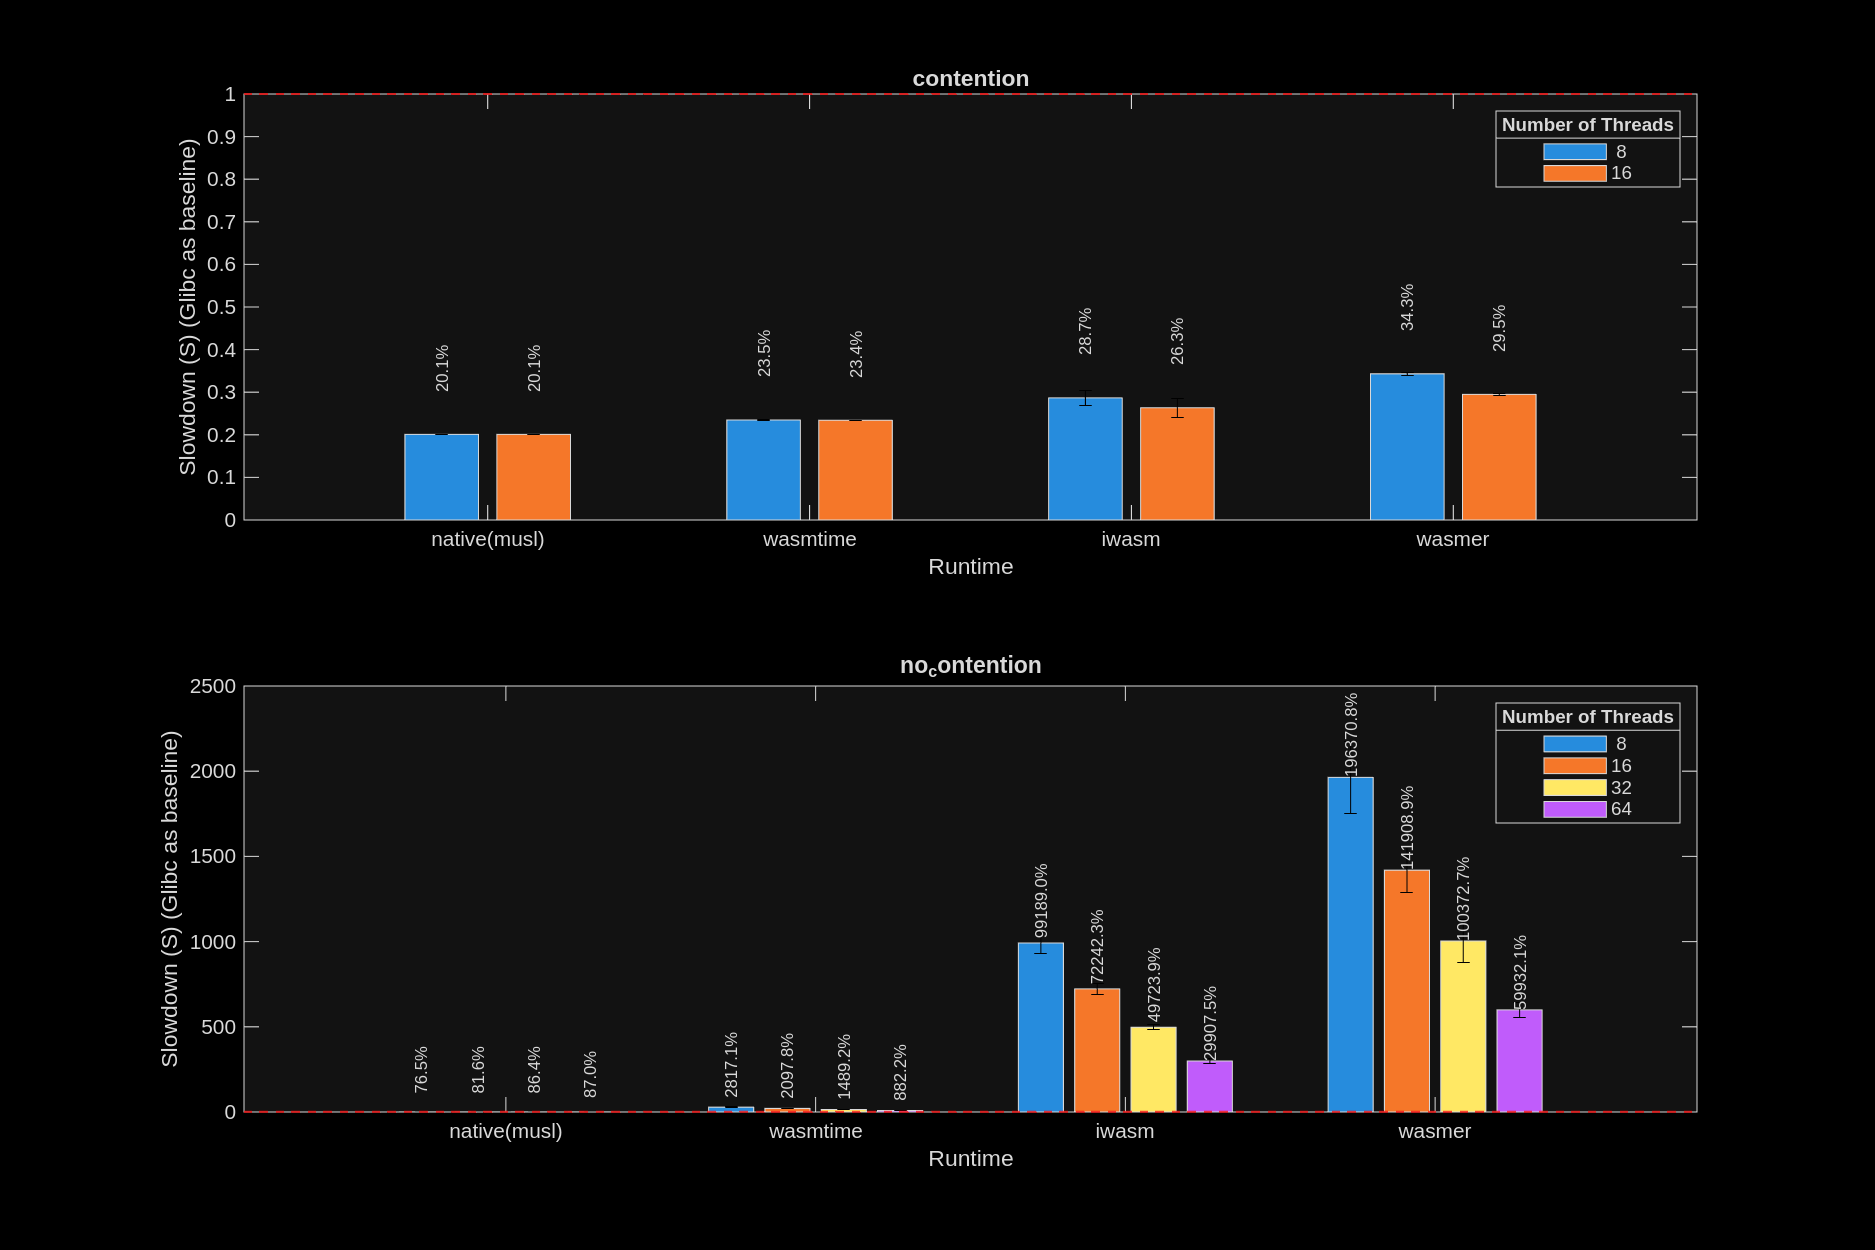
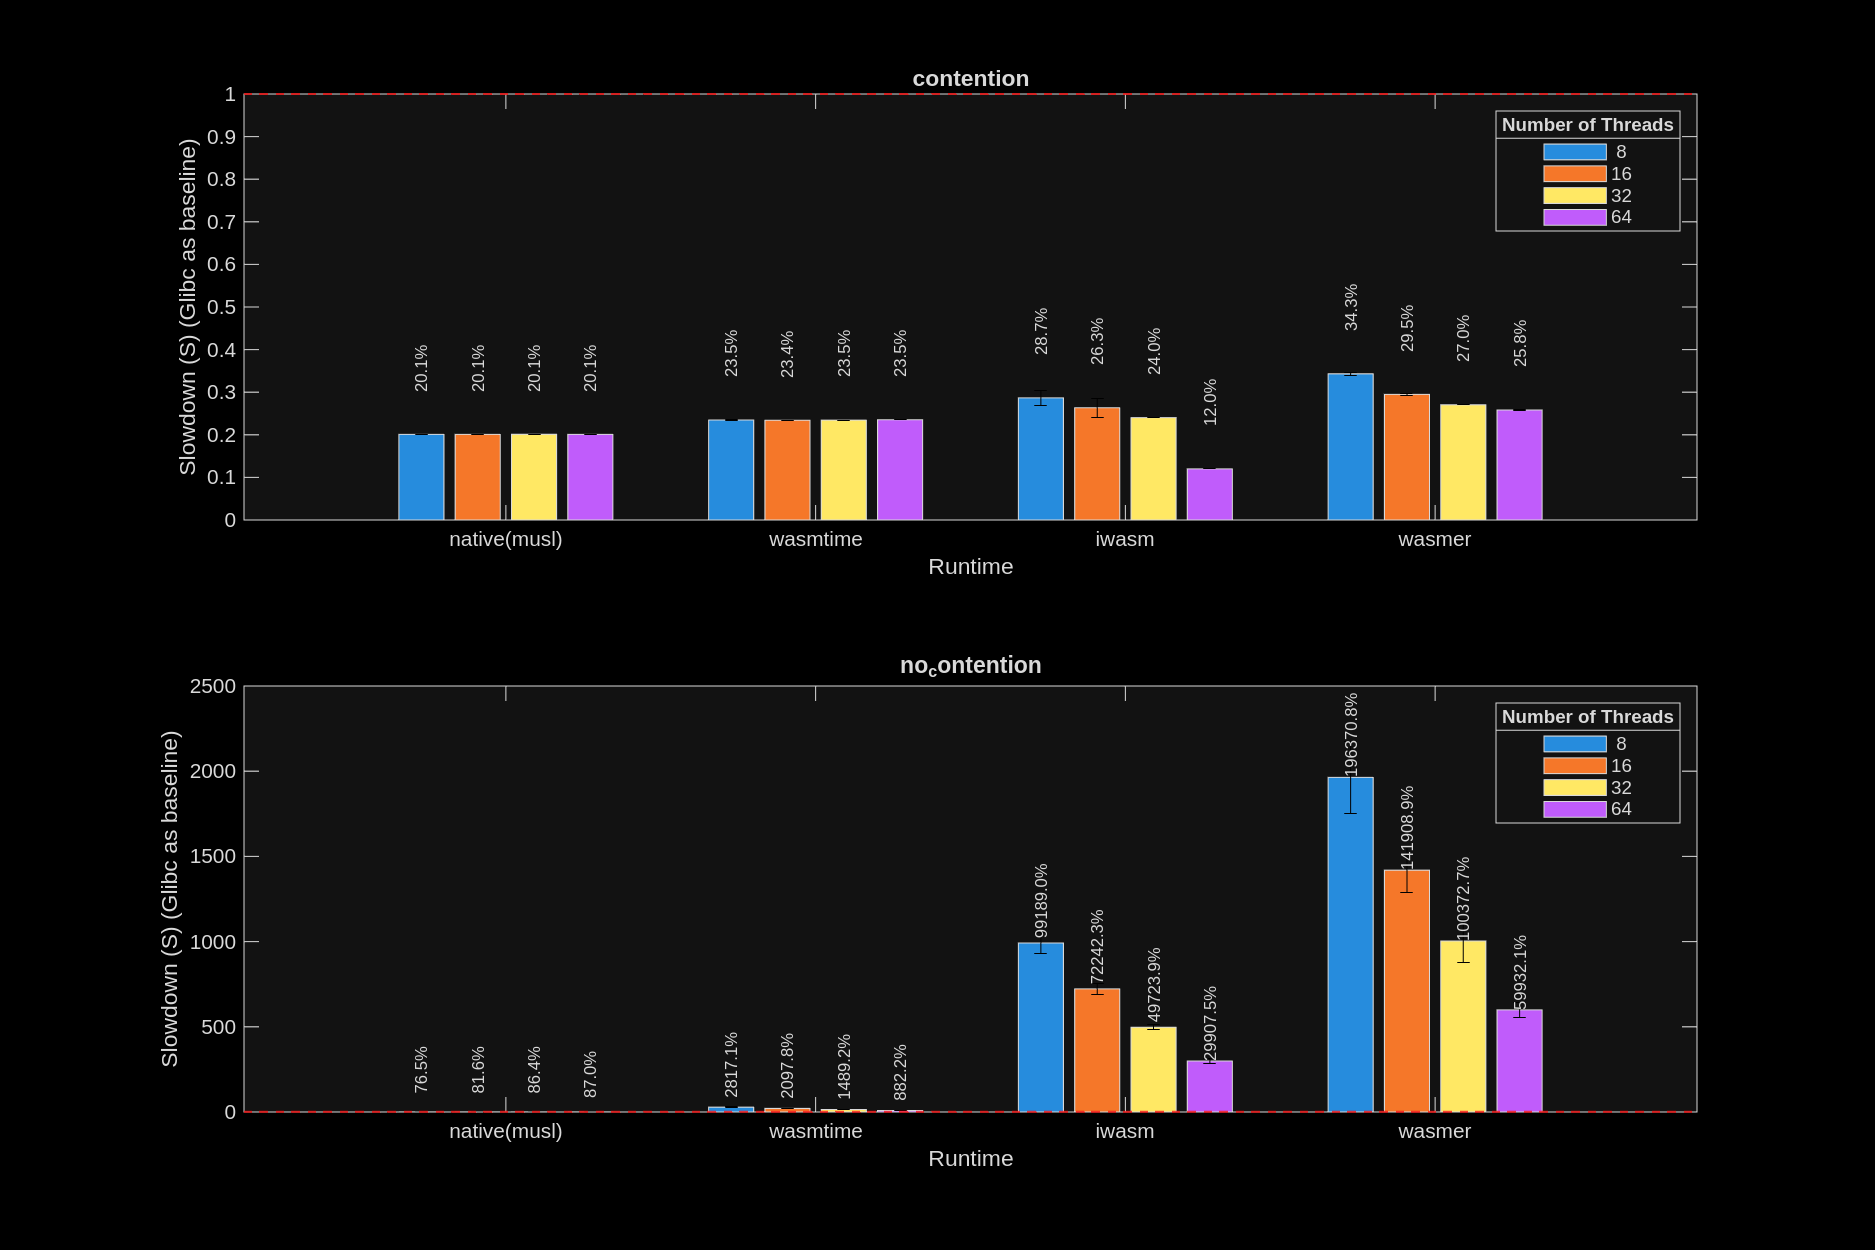
fix glibc contention timeout

diff --git a/wasi-threads-microbenchmarks/pthread_mutex/run_benchmark.py b/wasi-threads-microbenchmarks/pthread_mutex/run_benchmark.py
@@ -11,7 +11,7 @@ num_runs = 30
 verbose = False
 
 # Time limit for each benchmark
-time_limit = 60
+time_limit = 300
 
 
 # Array of benchmarks
